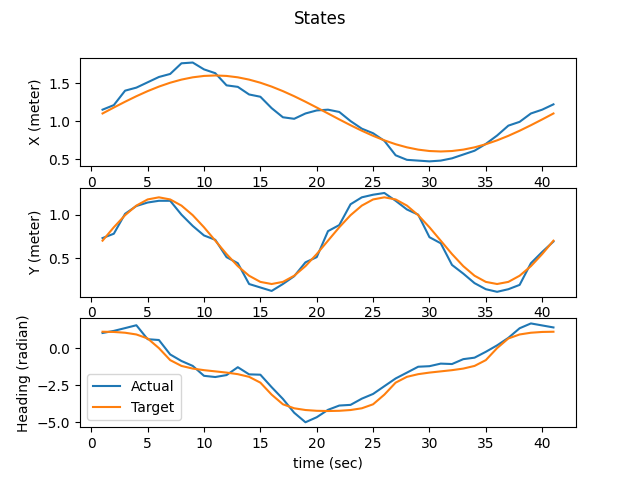
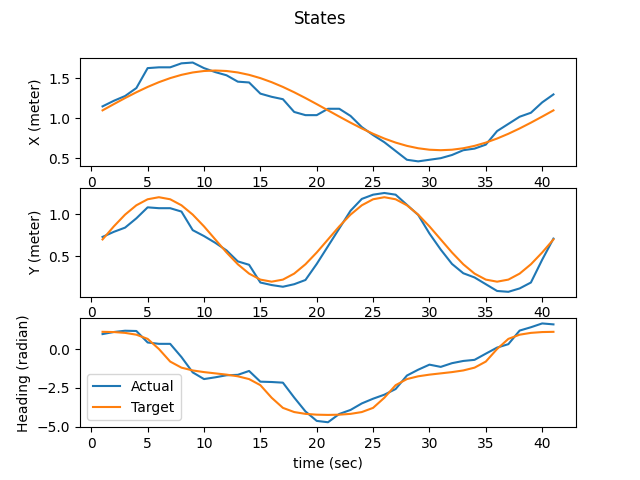
-

diff --git a/Project/Infinity/infinity_tracking_pwm.py b/Project/Infinity/infinity_tracking_pwm.py
@@ -66,11 +66,11 @@ theta_target=np.unwrap( atan2(2*pi*cos((pi*t_tra)/10), pi*cos((pi*t_tra)/20)) );
 #============================================================Sytem variables========================================================================================================================
 # setting matrix_weights' variables
 
-Q_x = 80000000000000000000
+Q_x = 500000000000000000000
 Q_y = 80000000000000000000
-Q_theta = 30000000000
-R1 = 8
-R2 = 1
+Q_theta = 5000000000000
+R1 = 10
+R2 = 5
 
 '''
 Q_x = 60000
@@ -168,8 +168,8 @@ rl = ca.vertcat(
 
 #con= 3.8/255 #( 3.8 rad/sec /255)
 con=ca.vertcat(
-    ca.horzcat(9.55/145),
-    ca.horzcat(9.55/147)
+    ca.horzcat(10.55/145),
+    ca.horzcat(10.55/147)
 )
 
 con1=ca.vertcat(
